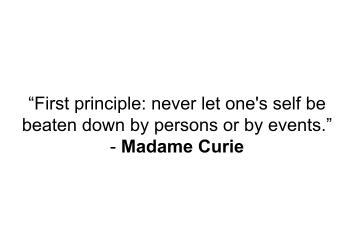
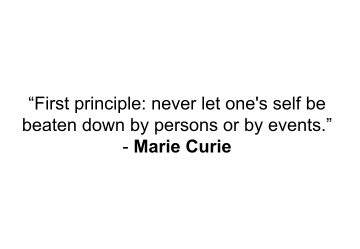
Descr: Updated website.

Changed region(s): [[0.3056, 0.5622, 0.6722, 0.6185]]

diff --git a/index.html b/index.html
@@ -162,7 +162,7 @@
 						<img src="images/custom/curie.jpg" alt="" />
 					</a>
 					<div class="caption">
-						<h3>Madame Curie</h3>
+						<h3>Marie Curie</h3>
 						<p>"First principle: never let one's self be beaten down by persons or by events."</p>
 					</div>
 				</article>
